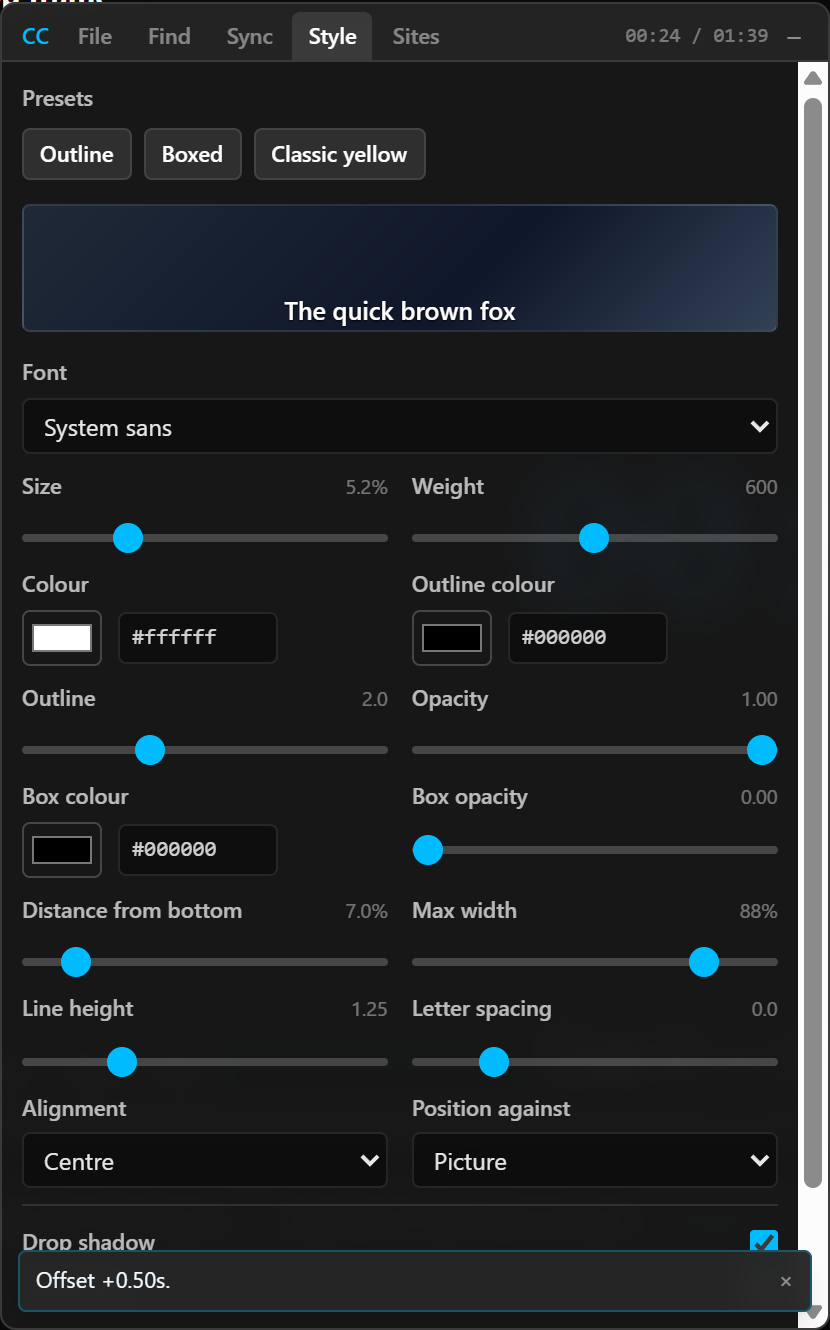
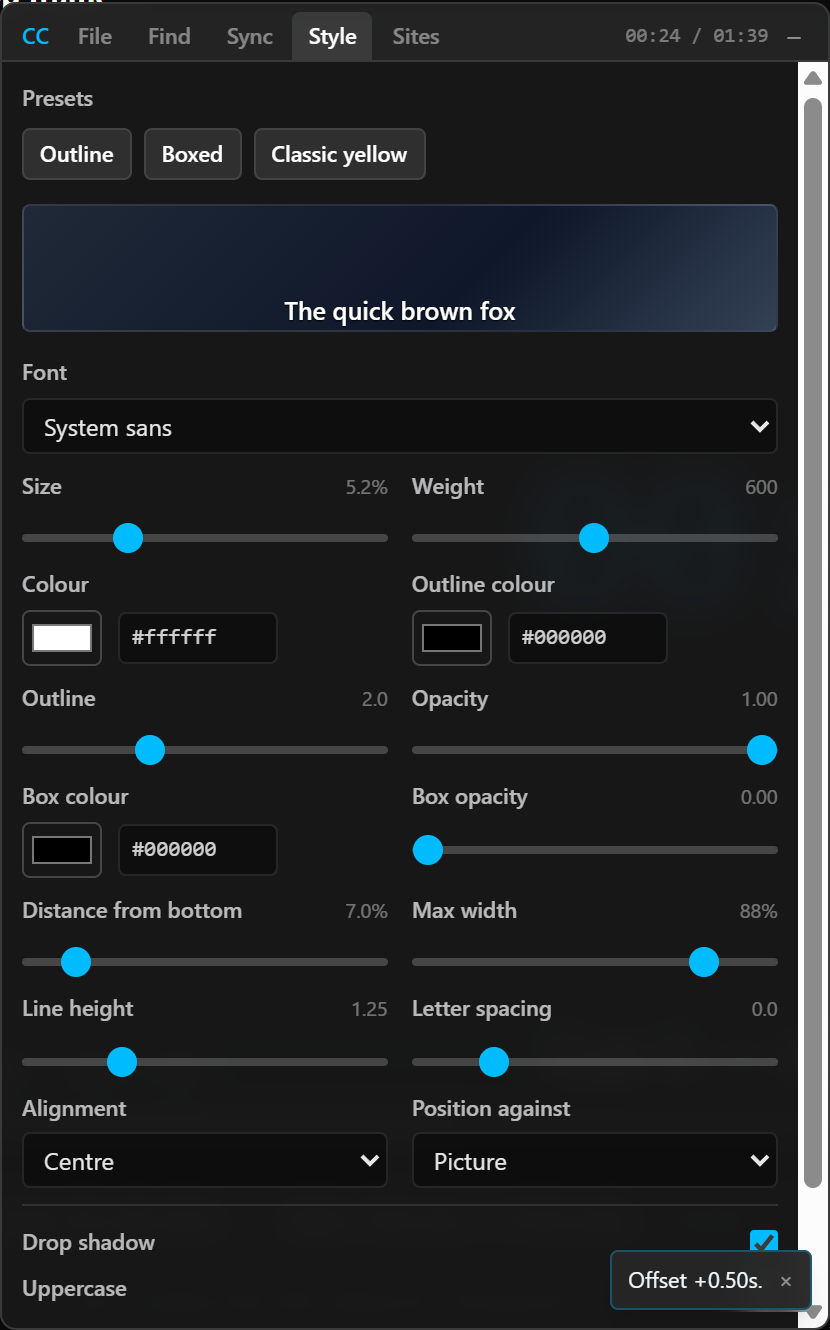
accelerating skips, optional seek bar, language beside series
Repeated presses of back or forward grow the jump through 1, 2, 5, 10, 20 and 30 times the skip length. The seek bar is off by default behind a Seek toggle. Toasts sit bottom right so they do not cover Apply rate fix. The language picker moves to the Series header and applies to every search.

Changed region(s): [[0.7229, 0.9556, 0.9337, 0.9865], [0.0, 0.9556, 0.2108, 0.9865]]

diff --git a/src/panel/components/SyncTab.tsx b/src/panel/components/SyncTab.tsx
@@ -8,6 +8,9 @@ import { Button, TextInput, clock } from '@/panel/components/ui';
 /** One line per row, so the height is exact and there is no dead space under short cues. */
 const ROW_HEIGHT = 24;
 const OVERSCAN = 4;
+/** Skip-button acceleration: multipliers of the skip length, and how soon the next press counts. */
+const BOOST_STEPS = [1, 2, 5, 10, 20, 30];
+const BOOST_WINDOW_MS = 1200;
 /** How long to leave auto-scroll off after the user scrolls the list themselves. */
 const MANUAL_SCROLL_GRACE_MS = 4000;
 
@@ -45,6 +48,7 @@ export function SyncTab() {
 
 const SECTION_LABELS: { id: SyncSection; label: string; title: string }[] = [
   { id: 'timing', label: 'Timing', title: 'Show or hide the offset buttons' },
+  { id: 'seek', label: 'Seek', title: 'Show or hide the seek bar' },
   { id: 'lines', label: 'Lines', title: 'Show or hide the subtitle line list' },
   { id: 'drift', label: 'Drift', title: 'Show or hide the drift fix' },
 ];
@@ -66,6 +70,17 @@ function PlayerBar() {
 
   const [paused, setPaused] = useState(video?.paused ?? true);
   const [draft, setDraft] = useState(String(step));
+  /** The multiplier in force while skip buttons are being pressed in a row, or 1. */
+  const [boost, setBoost] = useState(1);
+  const streak = useRef<{ dir: 1 | -1; at: number; count: number } | null>(null);
+  const boostTimer = useRef<ReturnType<typeof setTimeout> | null>(null);
+
+  useEffect(
+    () => () => {
+      if (boostTimer.current) clearTimeout(boostTimer.current);
+    },
+    [],
+  );
 
   useEffect(() => {
     if (!video) return;
@@ -81,8 +96,23 @@ function PlayerBar() {
 
   if (!video) return null;
 
-  const seek = (delta: number) => {
-    video.currentTime = Math.max(0, video.currentTime + delta);
+  /**
+   * Skip back or forward. Pressing the same button again within a second and a bit speeds the
+   * jump up — 1x, 2x, 5x, 10x, 20x, 30x the skip length — so crossing a long gap is a few
+   * clicks, and it drops back to 1x when you pause or change direction.
+   */
+  const skip = (dir: 1 | -1) => {
+    const now = Date.now();
+    const last = streak.current;
+    const count = last && last.dir === dir && now - last.at < BOOST_WINDOW_MS ? last.count + 1 : 0;
+    streak.current = { dir, at: now, count };
+
+    const multiplier = BOOST_STEPS[Math.min(count, BOOST_STEPS.length - 1)] ?? 1;
+    video.currentTime = Math.max(0, video.currentTime + dir * step * multiplier);
+
+    setBoost(multiplier);
+    if (boostTimer.current) clearTimeout(boostTimer.current);
+    boostTimer.current = setTimeout(() => setBoost(1), BOOST_WINDOW_MS);
   };
   const togglePlay = () => {
     if (video.paused) void video.play().catch(() => undefined);
@@ -101,7 +131,7 @@ function PlayerBar() {
         type="button"
         title={section.title}
         onClick={() => toggle(id)}
-        className={`rounded border px-1.5 py-1 text-[10px] font-medium transition-colors ${
+        className={`rounded border px-1 py-1 text-[10px] font-medium transition-colors ${
           sections[id]
             ? 'border-sky-400/50 bg-sky-500 text-white'
             : 'border-transparent text-white/60 hover:bg-white/10'
@@ -114,7 +144,8 @@ function PlayerBar() {
 
   return (
     <div className="space-y-1.5">
-      {/* Seek bar: spans the full width, so a time is one click or drag away. */}
+      {/* Seek bar: hidden until asked for. Full width, so a time is one click away. */}
+      {sections.seek && (
       <div className="flex items-center gap-2">
         <span className="w-10 shrink-0 text-right font-mono text-[10px] tabular-nums text-white/50">
           {clock(time)}
@@ -138,17 +169,21 @@ function PlayerBar() {
           {duration > 0 ? clock(duration) : '--:--'}
         </span>
       </div>
+      )}
 
       <div className="grid grid-cols-[1fr_auto_1fr] items-center gap-1">
-        <div className="flex justify-start gap-0.5">{chip('timing')}</div>
+        <div className="flex justify-start gap-0.5">
+          {chip('timing')}
+          {chip('seek')}
+        </div>
         <div className="flex items-center justify-center gap-1">
-        <IconButton label={`Back ${step}s`} onClick={() => seek(-step)}>
+        <IconButton label={`Back ${step}s (press repeatedly to speed up)`} onClick={() => skip(-1)}>
           <path d="M11 7 4 12l7 5V7Zm9 0-7 5 7 5V7Z" />
         </IconButton>
         <IconButton label={paused ? 'Play' : 'Pause'} onClick={togglePlay} primary>
           {paused ? <path d="M8 5v14l11-7L8 5Z" /> : <path d="M7 5h3.5v14H7V5Zm6.5 0H17v14h-3.5V5Z" />}
         </IconButton>
-        <IconButton label={`Forward ${step}s`} onClick={() => seek(step)}>
+        <IconButton label={`Forward ${step}s (press repeatedly to speed up)`} onClick={() => skip(1)}>
           <path d="m13 7 7 5-7 5V7ZM4 7l7 5-7 5V7Z" />
         </IconButton>
         <input
@@ -163,9 +198,13 @@ function PlayerBar() {
           }}
           onKeyUp={(e) => e.stopPropagation()}
           title="Seconds to skip per click"
-          className="ml-1 w-9 rounded border border-white/10 bg-black/40 px-1 py-1 text-center text-[11px] tabular-nums text-white/85 outline-none focus:border-sky-400/60"
+          className="ml-1 w-8 rounded border border-white/10 bg-black/40 px-1 py-1 text-center text-[11px] tabular-nums text-white/85 outline-none focus:border-sky-400/60"
         />
-        <span className="text-[10px] text-white/35">s</span>
+        <span
+          className={`w-5 text-[10px] tabular-nums ${boost > 1 ? 'font-medium text-sky-300' : 'text-white/35'}`}
+        >
+          {boost > 1 ? `×${boost}` : 's'}
+        </span>
         </div>
         <div className="flex justify-end gap-0.5">
           {chip('lines')}

diff --git a/src/panel/components/SeriesBrowser.tsx b/src/panel/components/SeriesBrowser.tsx
@@ -2,6 +2,8 @@ import { useEffect, useState } from 'react';
 import type { Position, Season, Show } from '@/lib/tv';
 import { episodeAt, nextEpisode, previousEpisode } from '@/lib/tv';
 import { useTv } from '@/panel/tvStore';
+import { usePanel } from '@/panel/store';
+import { LanguagePicker } from '@/panel/components/LanguagePicker';
 import { Button, TextInput } from '@/panel/components/ui';
 
 /**
@@ -20,6 +22,8 @@ export function SeriesBrowser() {
   const init = useTv((s) => s.init);
   const recent = useTv((s) => s.recent);
   const show = useTv((s) => s.show);
+  const language = usePanel((s) => s.language);
+  const setLanguage = usePanel((s) => s.setLanguage);
 
   useEffect(() => {
     void init();
@@ -33,20 +37,23 @@ export function SeriesBrowser() {
 
   return (
     <div className="rounded border border-white/10 bg-black/20">
-      <button
-        type="button"
-        onClick={() => setOpen(!open)}
-        className="flex w-full items-center gap-1.5 px-2 py-1.5 text-left hover:bg-white/5"
-      >
-        <span className="text-[9px] text-white/35">{open ? '▾' : '▸'}</span>
-        <span className="text-[11px] font-medium text-white/75">Series</span>
-        {!open && show && (
-          <span className="ml-auto max-w-40 truncate text-[10px] text-white/35">{show.name}</span>
-        )}
-        {!open && !show && (
-          <span className="ml-auto text-[10px] text-white/30">pick a season and episode</span>
-        )}
-      </button>
+      {/* The subtitle language lives here, not in Custom search: it is one setting for every
+          search, typed or driven by the series picker, so it stays reachable when either
+          section is collapsed. */}
+      <div className="flex items-center gap-1.5 pr-1.5 hover:bg-white/5">
+        <button
+          type="button"
+          onClick={() => setOpen(!open)}
+          className="flex min-w-0 flex-1 items-center gap-1.5 px-2 py-1.5 text-left"
+        >
+          <span className="text-[9px] text-white/35">{open ? '▾' : '▸'}</span>
+          <span className="text-[11px] font-medium text-white/75">Series</span>
+          {!open && show && (
+            <span className="ml-auto min-w-0 truncate text-[10px] text-white/35">{show.name}</span>
+          )}
+        </button>
+        <LanguagePicker selected={language} onChange={setLanguage} />
+      </div>
 
       {open && (
         <div className="space-y-2 border-t border-white/10 px-2 py-2">

diff --git a/test/local.html b/test/local.html
@@ -91,10 +91,12 @@
           <em>toast</em> that disappears by itself.
         </li>
         <li>
-          <strong>Sync</strong> tab, player controls: drag the seek bar and the video follows;
-          play/pause toggles; the back/forward buttons skip by the number in the box (1s by
-          default, try 5 and 0.5). <strong>Lines</strong> and <strong>Drift</strong> are on by
-          default and <strong>Timing</strong> is off; each toggle shows and hides its section.
+          <strong>Sync</strong> tab, player controls: play/pause toggles; the back/forward buttons
+          skip by the number in the box (1s by default, try 5 and 0.5), and pressing one
+          repeatedly speeds up (1, 2, 5, 10s&hellip;, shown as &times;N). <strong>Lines</strong>
+          and <strong>Drift</strong> are on by default; <strong>Timing</strong> and
+          <strong>Seek</strong> are off. Turn <strong>Seek</strong> on: dragging the seek bar moves
+          the video. Each toggle shows and hides its section.
         </li>
         <li>
           Turn <strong>Timing</strong> on and press +0.5, or nudge with <kbd>G</kbd>/<kbd>H</kbd>:
@@ -109,7 +111,8 @@
         </li>
         <li>
           <strong>Find</strong> tab: the dot at the bottom should turn green ("working") within a
-          few seconds. It runs a real search/download test, at most once every 24 hours. Search
+          few seconds. It runs a real search/download test, at most once every 24 hours. The
+          language picker is on the Series header row and applies to both kinds of search. Search
           for a film, or use <strong>Series</strong> to pick a show, a season and an episode (the
           single row with ‹ and › runs the search for you). Needs internet.
         </li>

diff --git a/src/panel/components/FindTab.tsx b/src/panel/components/FindTab.tsx
@@ -5,7 +5,6 @@ import { PAGE_SIZE } from '@/lib/api-types';
 import { usePanel, trackKey } from '@/panel/store';
 import { useTv } from '@/panel/tvStore';
 import { Button, TextInput } from '@/panel/components/ui';
-import { LanguagePicker } from '@/panel/components/LanguagePicker';
 import { SeriesBrowser } from '@/panel/components/SeriesBrowser';
 
 /** Matches the API's own limit, so over-long titles are rejected before a round trip. */
@@ -107,8 +106,6 @@ function SourceLine() {
  */
 function CustomSearch({ open, onToggle }: { open: boolean; onToggle: () => void }) {
   const find = usePanel((s) => s.find);
-  const language = usePanel((s) => s.language);
-  const setLanguage = usePanel((s) => s.setLanguage);
   const setQuery = usePanel((s) => s.setQuery);
   const runSearch = usePanel((s) => s.runSearch);
 
@@ -141,7 +138,6 @@ function CustomSearch({ open, onToggle }: { open: boolean; onToggle: () => void 
               maxLength={MAX_QUERY_LENGTH}
               className="min-w-0 flex-1"
             />
-            <LanguagePicker selected={language} onChange={setLanguage} />
           </div>
 
           <Button

diff --git a/src/panel/store.ts b/src/panel/store.ts
@@ -31,7 +31,7 @@ import {
 import { videoKey } from '@/lib/videoKey';
 import { log } from '@/lib/log';
 
-export type SyncSection = 'timing' | 'lines' | 'drift';
+export type SyncSection = 'timing' | 'seek' | 'lines' | 'drift';
 
 /** What clicking a line in the cue list does. */
 export type ClickMode = 'quick' | 'anchorA' | 'anchorB';
@@ -221,7 +221,7 @@ export const usePanel = create<PanelState>((set, get) => ({
   notice: null,
   noticeAction: null,
 
-  syncSections: { timing: false, lines: true, drift: true },
+  syncSections: { timing: false, seek: false, lines: true, drift: true },
   toggleSyncSection(section) {
     const current = get().syncSections;
     set({ syncSections: { ...current, [section]: !current[section] } });

diff --git a/src/panel/App.tsx b/src/panel/App.tsx
@@ -196,7 +196,7 @@ function Toast() {
   return (
     <div
       role="status"
-      className={`absolute inset-x-2 bottom-2 z-20 flex items-center gap-2 rounded border px-2 py-1.5 text-[11px] shadow-lg backdrop-blur ${
+      className={`absolute bottom-2 right-2 z-20 flex max-w-[65%] items-center gap-2 rounded border px-2 py-1.5 text-[11px] shadow-lg backdrop-blur ${
         error
           ? 'border-red-400/40 bg-red-950/90 text-red-100'
           : 'border-sky-400/30 bg-neutral-800/95 text-sky-50'

diff --git a/README.md b/README.md
@@ -158,7 +158,7 @@ The top bar holds everything that used to need two rows:
 - **−** collapses the panel to a small **CC** pill in the corner. Click the pill to bring it back.
 
 Messages such as "Loaded 1,204 lines", "Shifted by +0.40s" or an error appear as a small
-**toast** at the bottom of the panel and disappear by themselves, so they never push the content
+**toast** at the bottom right of the panel and disappear by themselves, so they never push the content
 down. The panel works in fullscreen, because it lives inside the player's own frame.
 
 The first time you open a film the panel opens by itself. When you come back to a film whose
@@ -201,8 +201,9 @@ if it is wrong and press **Search** (or Enter).
   Green is working, red is not responding, amber is "could not be checked" (for example it asked
   you to slow down). The test runs at most once every 24 hours; hover the dot for the time and
   details.
-- **Language:** the dropdown next to the search box picks the subtitle language. Changing it
-  re-runs the search.
+- **Language:** the dropdown on the **Series** header row picks the subtitle language. It is one
+  setting for every search, typed in Custom search or started by the series picker, and changing
+  it re-runs the current search.
 - **Results** are listed by *release*, which is the name of the video file somebody timed the
   subtitles against, with its download count and the language it was translated from. A subtitle
   made for the same release as your video usually needs no syncing at all, so look at the name
@@ -240,12 +241,18 @@ Fix subtitles that appear too early, too late, or slowly slip out of step.
 
 The top of the tab is a small remote for the video so you do not have to reach for the player:
 
-- A **seek bar** across the full width. Click or drag to jump to any time; the current time is on
-  its left and the duration on its right.
 - **Back**, **play/pause** and **forward** buttons. The box beside them is the number of seconds
   they skip. It starts at **1** and you can type any value (for example `0.5` or `10`).
-- Three toggles on the same row show or hide the sections below. A hidden section takes no space.
-  **Lines** and **Drift** are on by default; **Timing** is off.
+- **Skips speed up when you keep pressing.** Press back or forward again within about a second
+  and the jump grows: 1×, 2×, 5×, 10×, 20×, 30× the skip length (a small `×5` shows next to the
+  box). Stop for a moment, or change direction, and it returns to 1×.
+- A **seek bar** across the full width, with the current time on its left and the duration on its
+  right. Click or drag to jump to any time. It is hidden by default; turn it on with **Seek**.
+- Four toggles on the same row show or hide the sections: **Timing** and **Seek** on the left,
+  **Lines** and **Drift** on the right. A hidden section takes no space. **Lines** and **Drift**
+  are on by default; **Timing** and **Seek** are off.
+
+![The seek bar switched on](docs/screenshots/sync-seek.png)
 
 ### Lines
 

diff --git a/CLAUDE.md b/CLAUDE.md
@@ -340,15 +340,17 @@ wide enough. Dragging clamps against the player, so it cannot be stranded off-sc
 counts. There is one top bar (`CC`, the five tabs, the clock, collapse) and no footer; the bar's
 empty space is the drag handle, and pointer-down ignores anything inside a `<button>` so the
 tabs stay clickable. Errors and notices are **toasts**: `error` / `notice` / `noticeAction` in
-`usePanel`, rendered by `Toast` in `App.tsx`, absolutely positioned over the bottom of the panel
-so they cost no layout height, and auto-dismissed (about 3 s for a notice, 6 s for an error, 8 s
+`usePanel`, rendered by `Toast` in `App.tsx`, absolutely positioned over the bottom **right** of the panel
+(so they never cover the Drift tab's *Apply rate fix* button on the left) and cost no layout height, and auto-dismissed (about 3 s for a notice, 6 s for an error, 8 s
 when it carries an action such as *Snap to 25 fps*). Set `notice` through the store; do not add
 inline banners. Search errors inside the Find tab stay inline, next to the button that caused
 them.
 
-**The Sync tab.** A seek bar across the full width, play/pause and skip buttons (SVG icons, never
-emoji) with a skip-length box (`seekStep`, default 1 s), and chips that show or hide three
-sections: Timing (off by default), Lines and Drift (on). `syncSections` lives in the store, so
+**The Sync tab.** Play/pause and skip buttons (SVG icons, never emoji) with a skip-length box
+(`seekStep`, default 1 s), and chips that show or hide four sections: Timing and Seek (the
+full-width seek bar) are off by default, Lines and Drift are on. Pressing a skip button again
+within `BOOST_WINDOW_MS` (1.2 s) in the same direction multiplies the jump through
+`BOOST_STEPS` (1, 2, 5, 10, 20, 30); a pause or a change of direction resets it. `syncSections` lives in the store, so
 the choice survives a tab switch but not a reload. A hidden section is not rendered at all. The
 cue list is virtualised with a **fixed** `ROW_HEIGHT` (24 px, one truncated line per cue, full
 text in the tooltip); auto-height rows for two-line cues would break the scroll maths, which is
@@ -518,7 +520,9 @@ style value. `lib/donate.ts` validates it on this side, since there is no server
 fails is dropped rather than rendered dead.
 
 **Find tab layout.** Two collapsible sections, *Series* and *Custom search*, then results, then
-the status dot. Custom search collapses itself the moment a series episode becomes active (the
+the status dot. The language picker sits on the Series header row, not in Custom search: it is
+one setting (`usePanel.language`) that `runSearch` reads for every search, typed or driven by
+the series picker, and it must stay reachable when either section is collapsed. Custom search collapses itself the moment a series episode becomes active (the
 series browser is then driving the searches) and reopens when none is. Results are releases with
 a **Use** button and *Back / More* paging.
 
